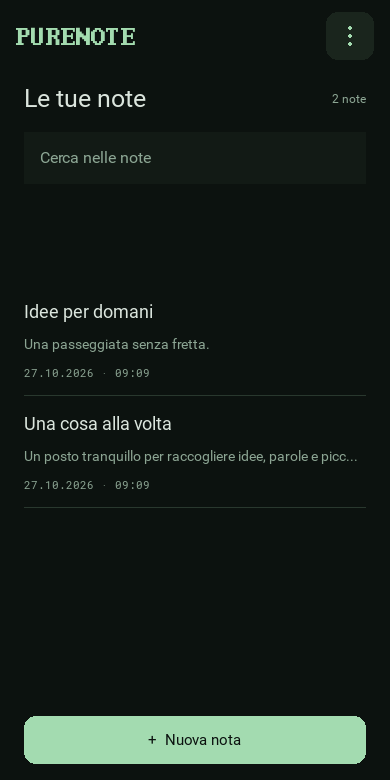
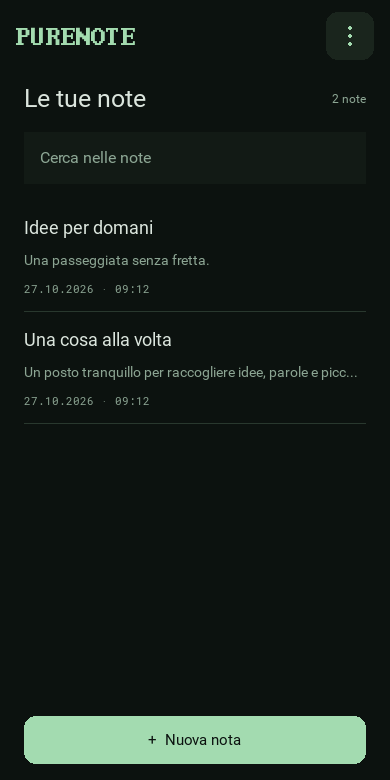
Anchor note list above footer and check save error typography

diff --git a/tests/ui_smoke.py b/tests/ui_smoke.py
@@ -33,6 +33,7 @@ class SmokeApp(PureNoteApp):
                 self.autosaved,
                 self.editor_capture,
                 self.failure_and_retry,
+                self.save_error_capture,
                 self.navigation,
                 self.list_capture,
                 self.trash_and_restore,
@@ -81,7 +82,7 @@ class SmokeApp(PureNoteApp):
         self.root.export_to_png(str(OUTPUT / "editor.png"))
 
     def failure_and_retry(self):
-        real_save = self.store.save_note
+        self.real_save = self.store.save_note
 
         def fail(*_):
             raise sqlite3.OperationalError("simulated disk full")
@@ -93,7 +94,11 @@ class SmokeApp(PureNoteApp):
         assert self.session.dirty
         assert self.editor.save_error
         self._popup.dismiss()
-        self.store.save_note = real_save
+
+    def save_error_capture(self):
+        self.assert_editor_layout()
+        self.root.export_to_png(str(OUTPUT / "save-error.png"))
+        self.store.save_note = self.real_save
         self.editor.ids.body.text = self.editor.ids.body.text.removesuffix(
             "\nUna modifica preziosa."
         )
@@ -110,6 +115,9 @@ class SmokeApp(PureNoteApp):
         assert len(self.store.list_notes()) == 2
 
     def list_capture(self):
+        notes = self.root.get_screen("list").ids.notes
+        assert notes.pos == notes.parent.pos
+        assert notes.top == notes.parent.top
         self.root.export_to_png(str(OUTPUT / "list.png"))
         self.set_query("DOMANI")
         self.refresh_list()
